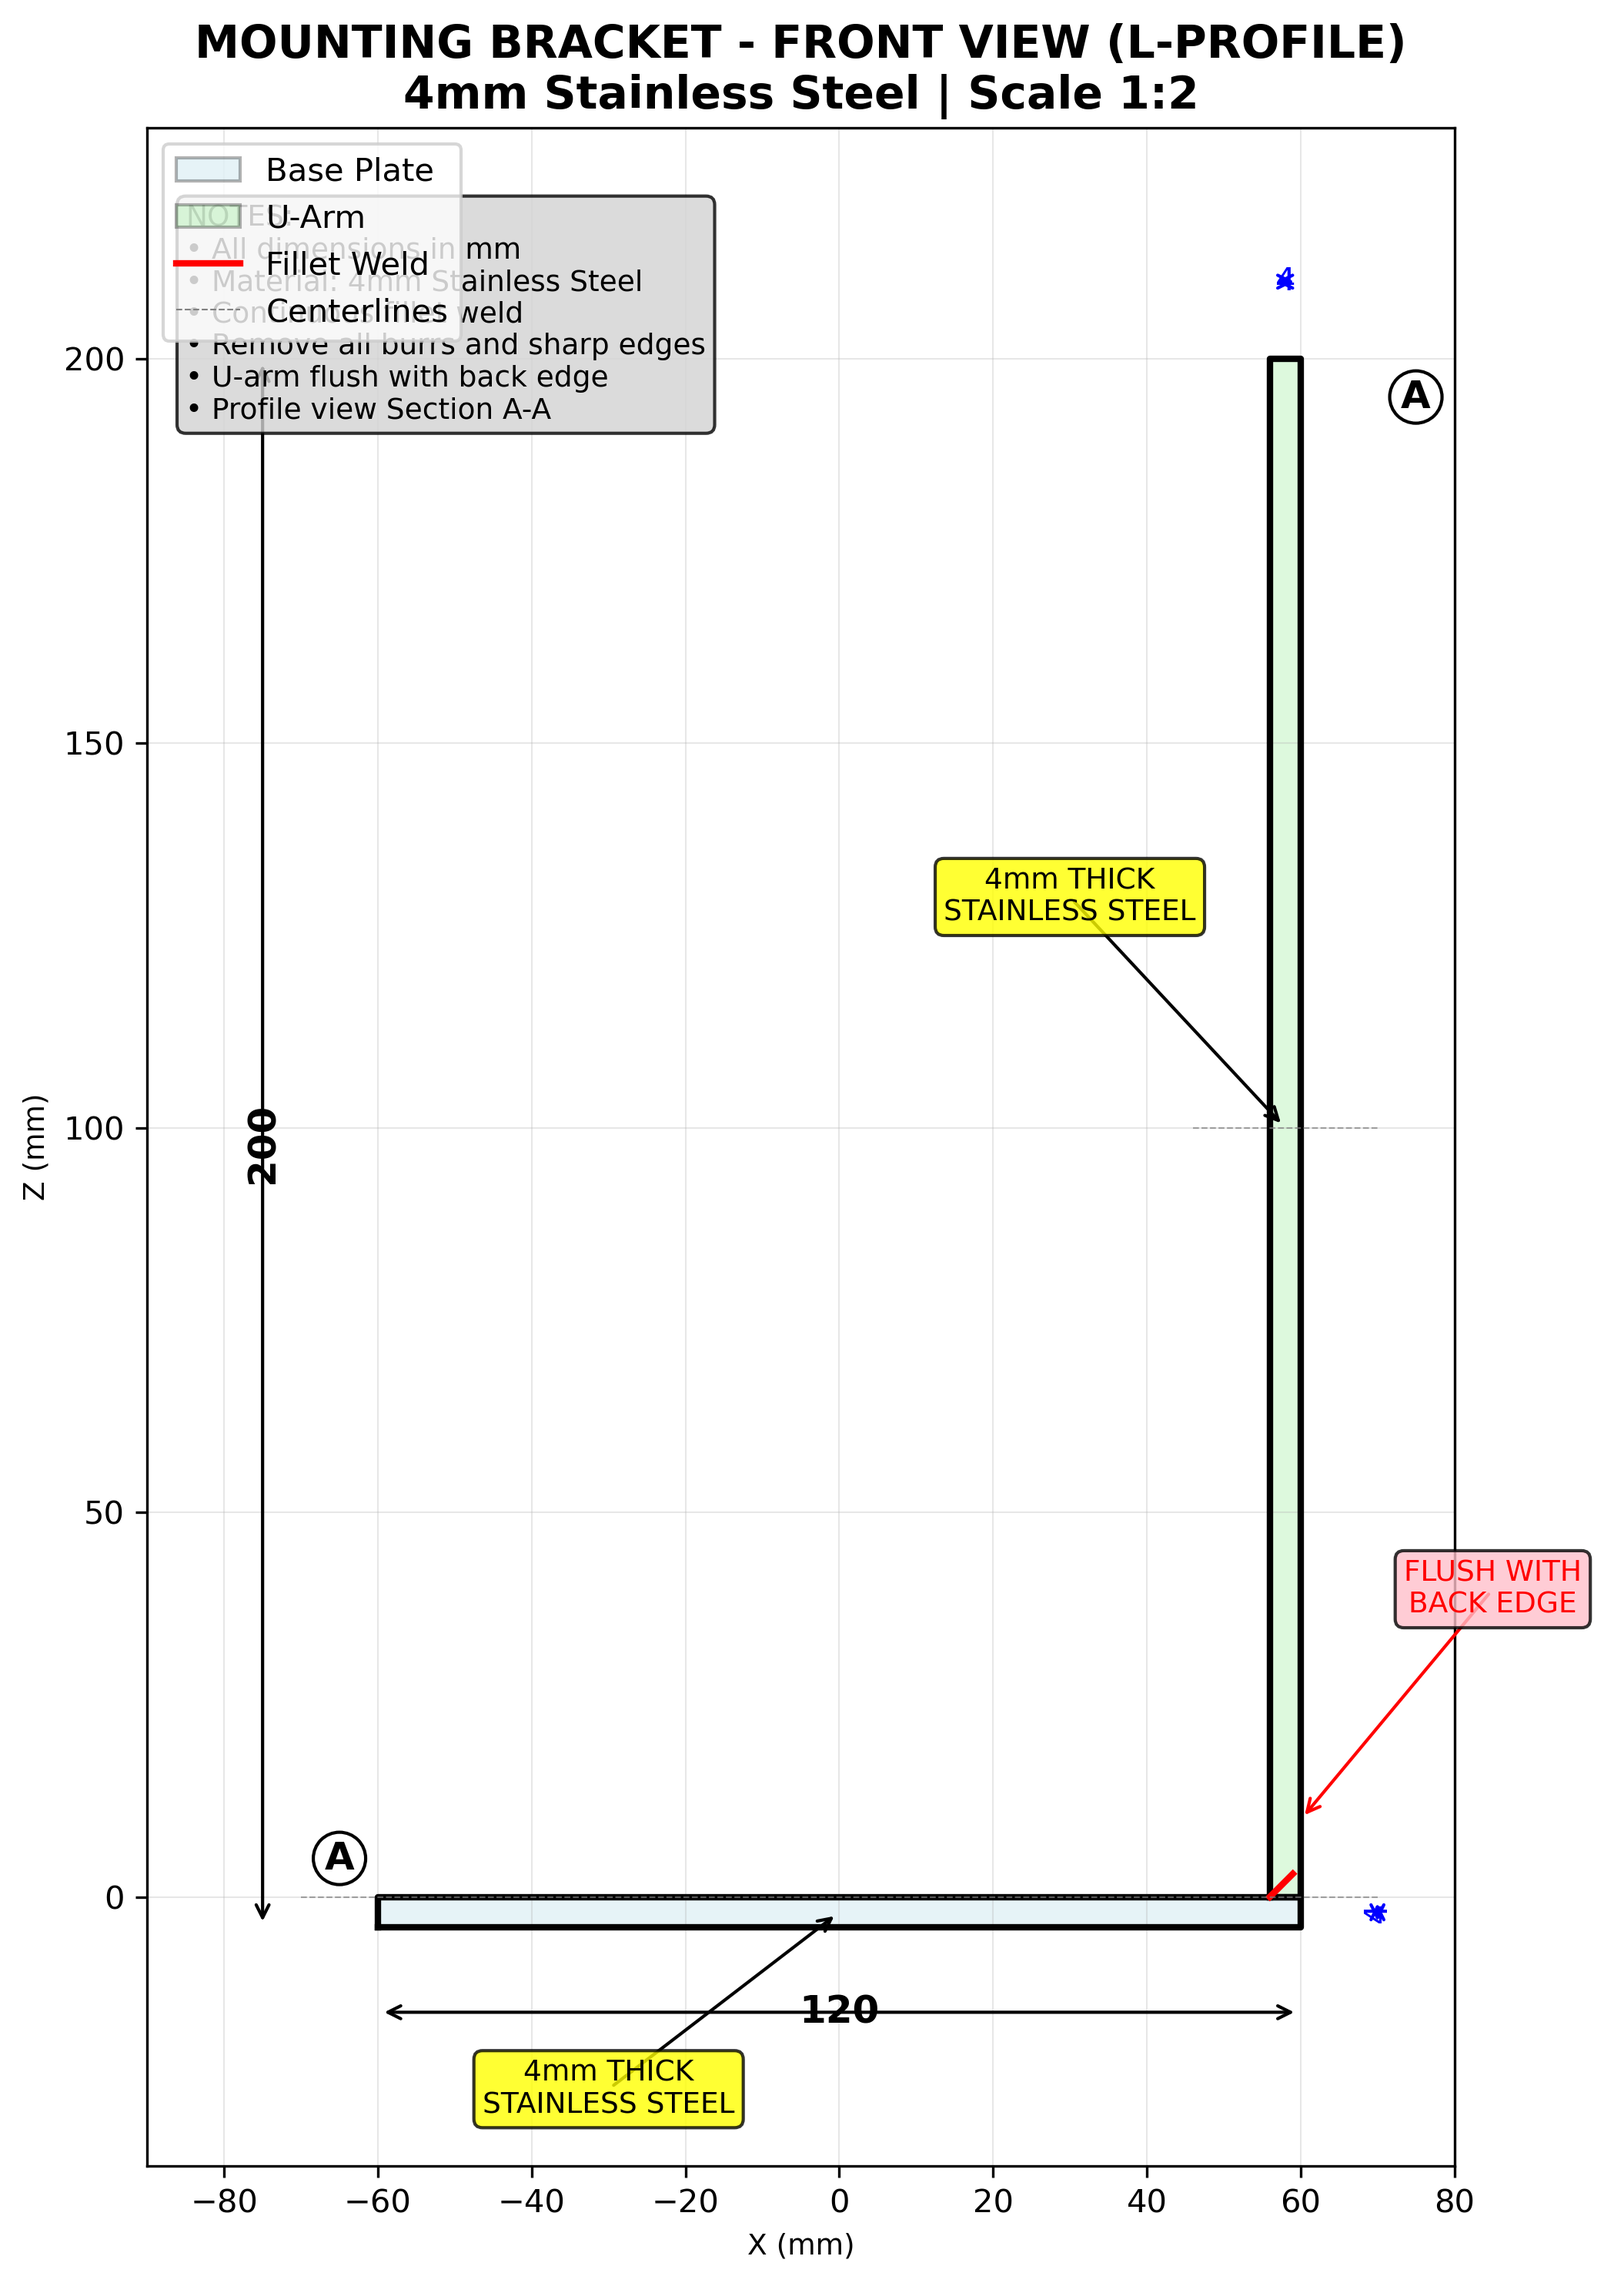
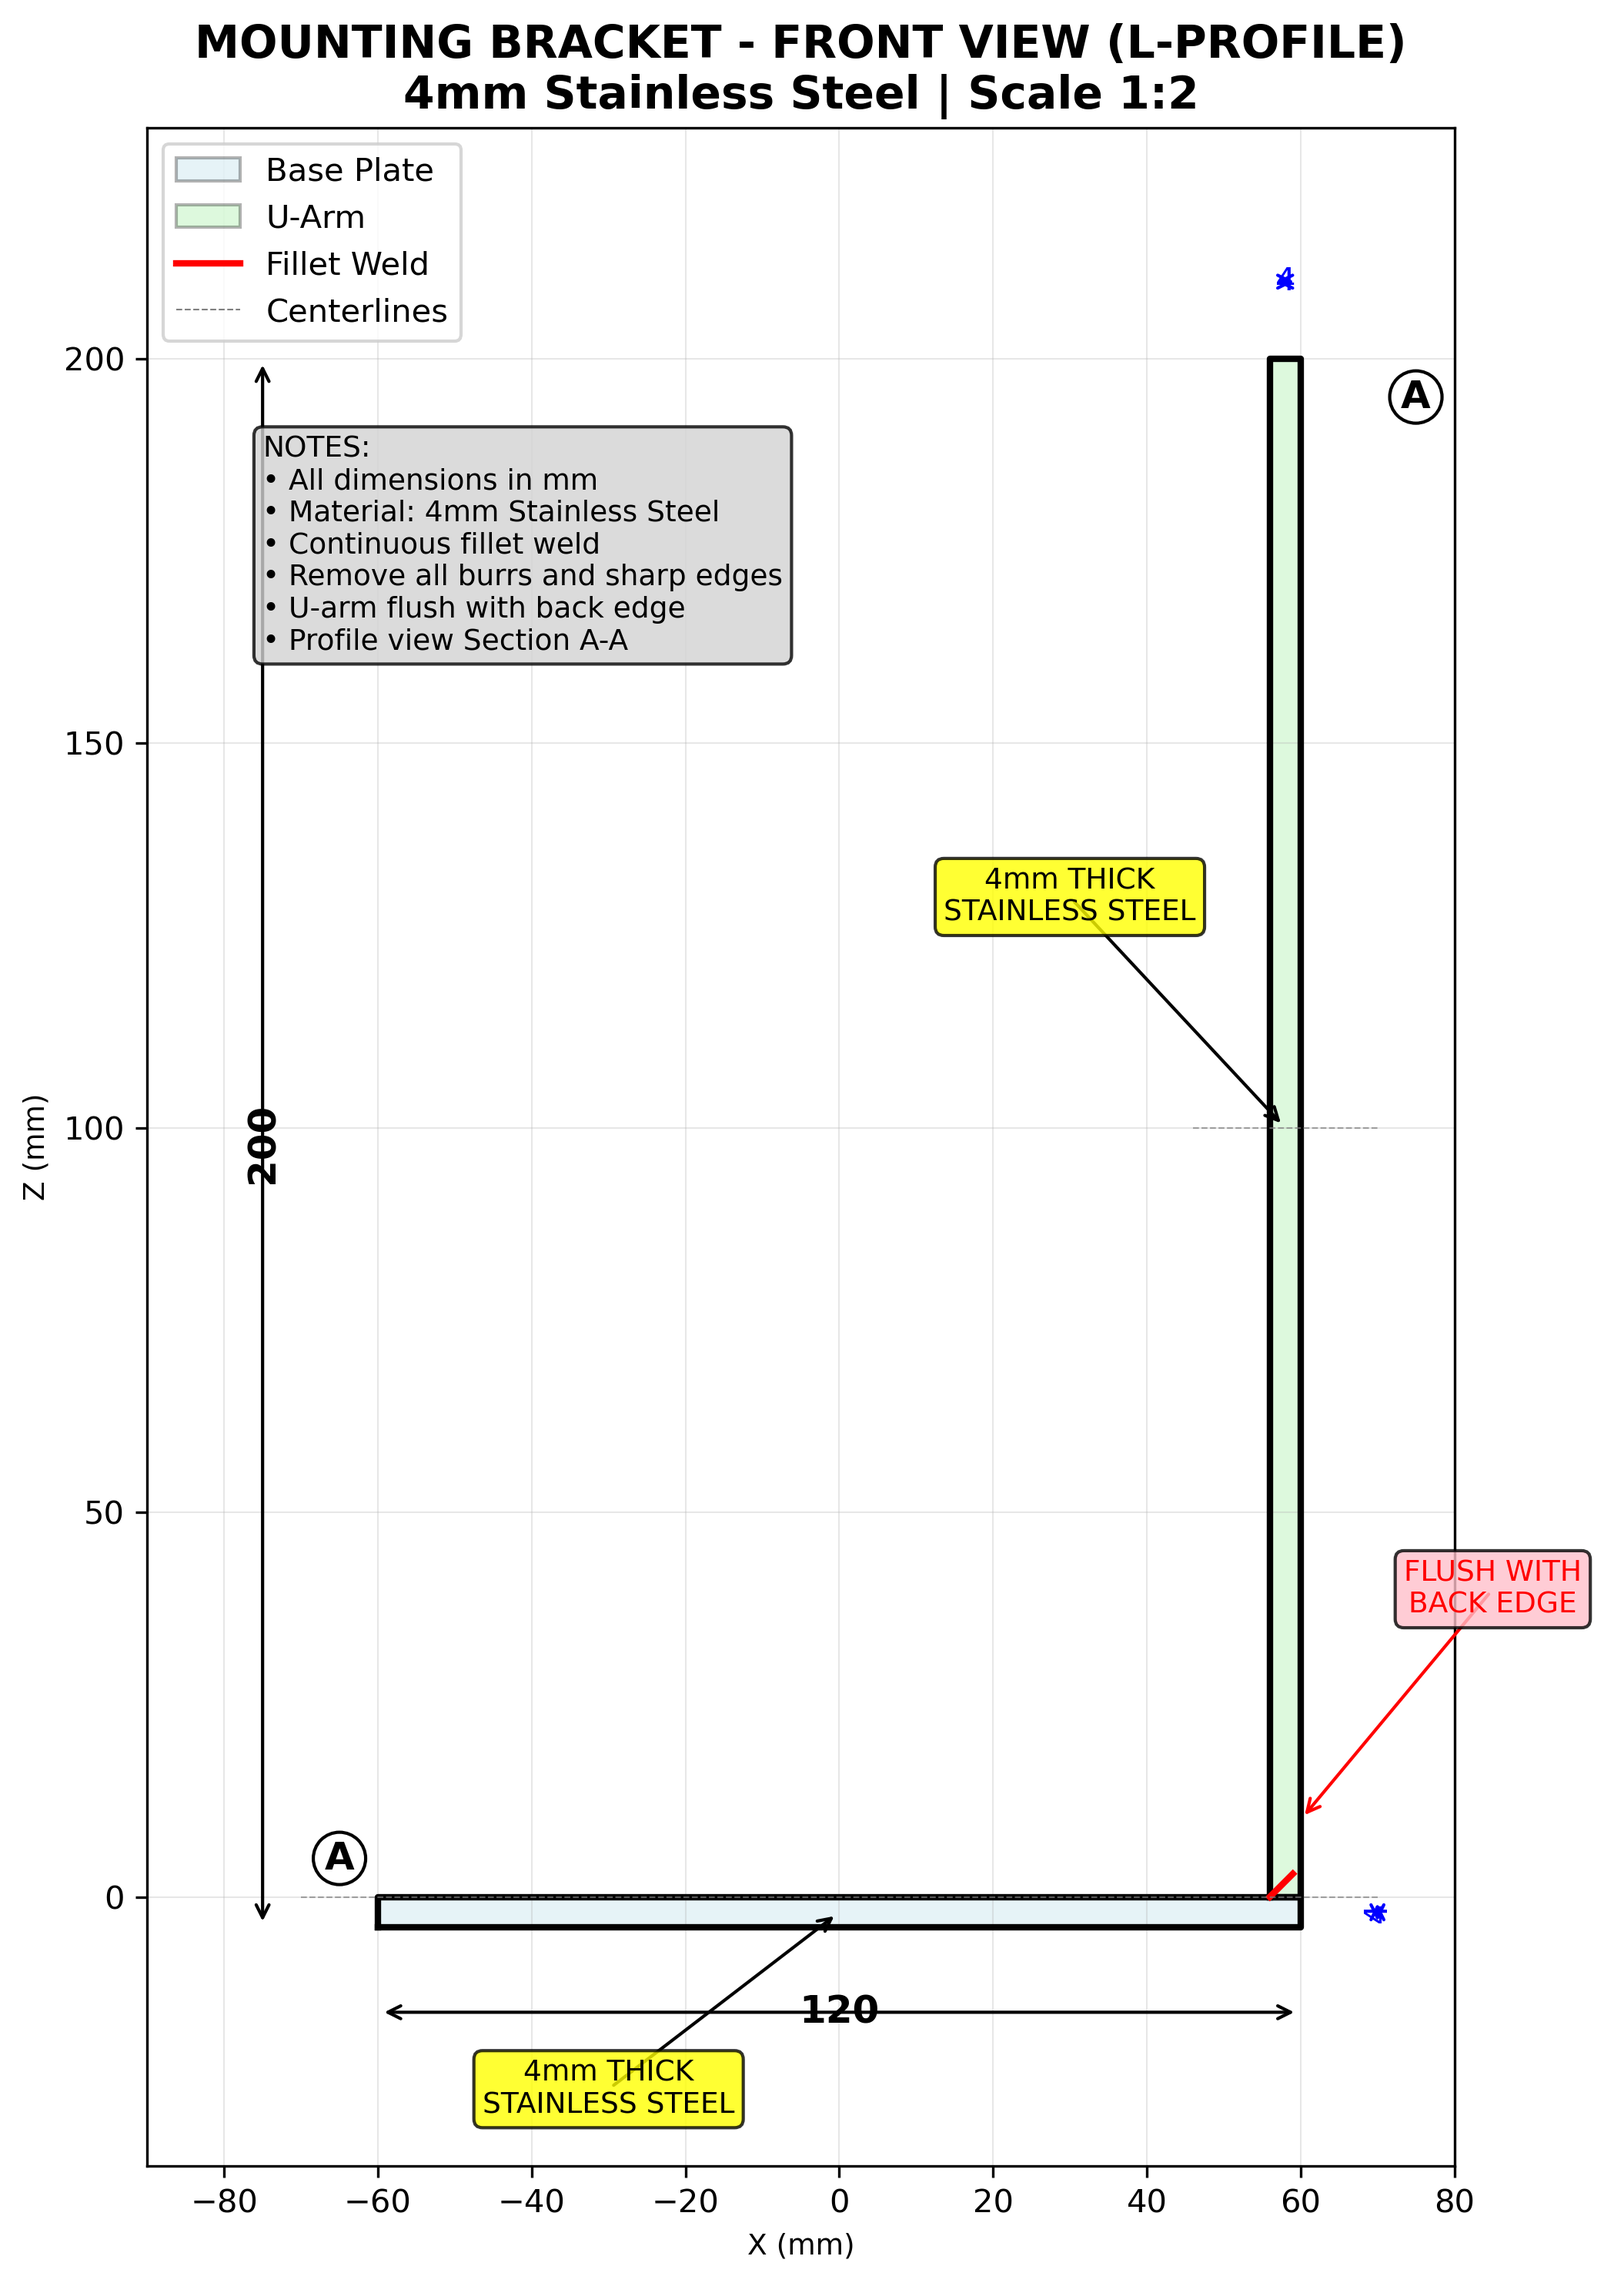
Fix NOTES positioning to resolve overlap issues
- Side view: NOTES reverted to (-85, 210) for optimal placement
- Front view: NOTES moved from (-85, 220) to (-75, 190)
- RESOLVES overlap between Legend and NOTES in front view
- All PNG and SVG files regenerated with corrected positioning
- Clean separation achieved between UI elements

Changed region(s): [[0.0936, 0.0621, 0.499, 0.3103]]

diff --git a/src/drawing_engine.py b/src/drawing_engine.py
@@ -155,7 +155,7 @@ class DrawingEngine:
             'U-arm welded to base plate',
             'Origin at plate center'
         ]
-        self.utils.add_comprehensive_notes(ax, mb_specs.MATERIAL, (-75, 180), manufacturing_details)
+        self.utils.add_comprehensive_notes(ax, mb_specs.MATERIAL, (-85, 210), manufacturing_details)
         
         plt.tight_layout()
         self._save_drawing(fig, 'mounting_bracket_side_view')
@@ -363,7 +363,7 @@ class DrawingEngine:
             'U-arm flush with back edge',
             'Profile view Section A-A'
         ]
-        self.utils.add_comprehensive_notes(ax, mb_specs.MATERIAL, (-85, 220), manufacturing_details)
+        self.utils.add_comprehensive_notes(ax, mb_specs.MATERIAL, (-75, 190), manufacturing_details)
         
         plt.tight_layout()
         self._save_drawing(fig, 'mounting_bracket_front_view')
